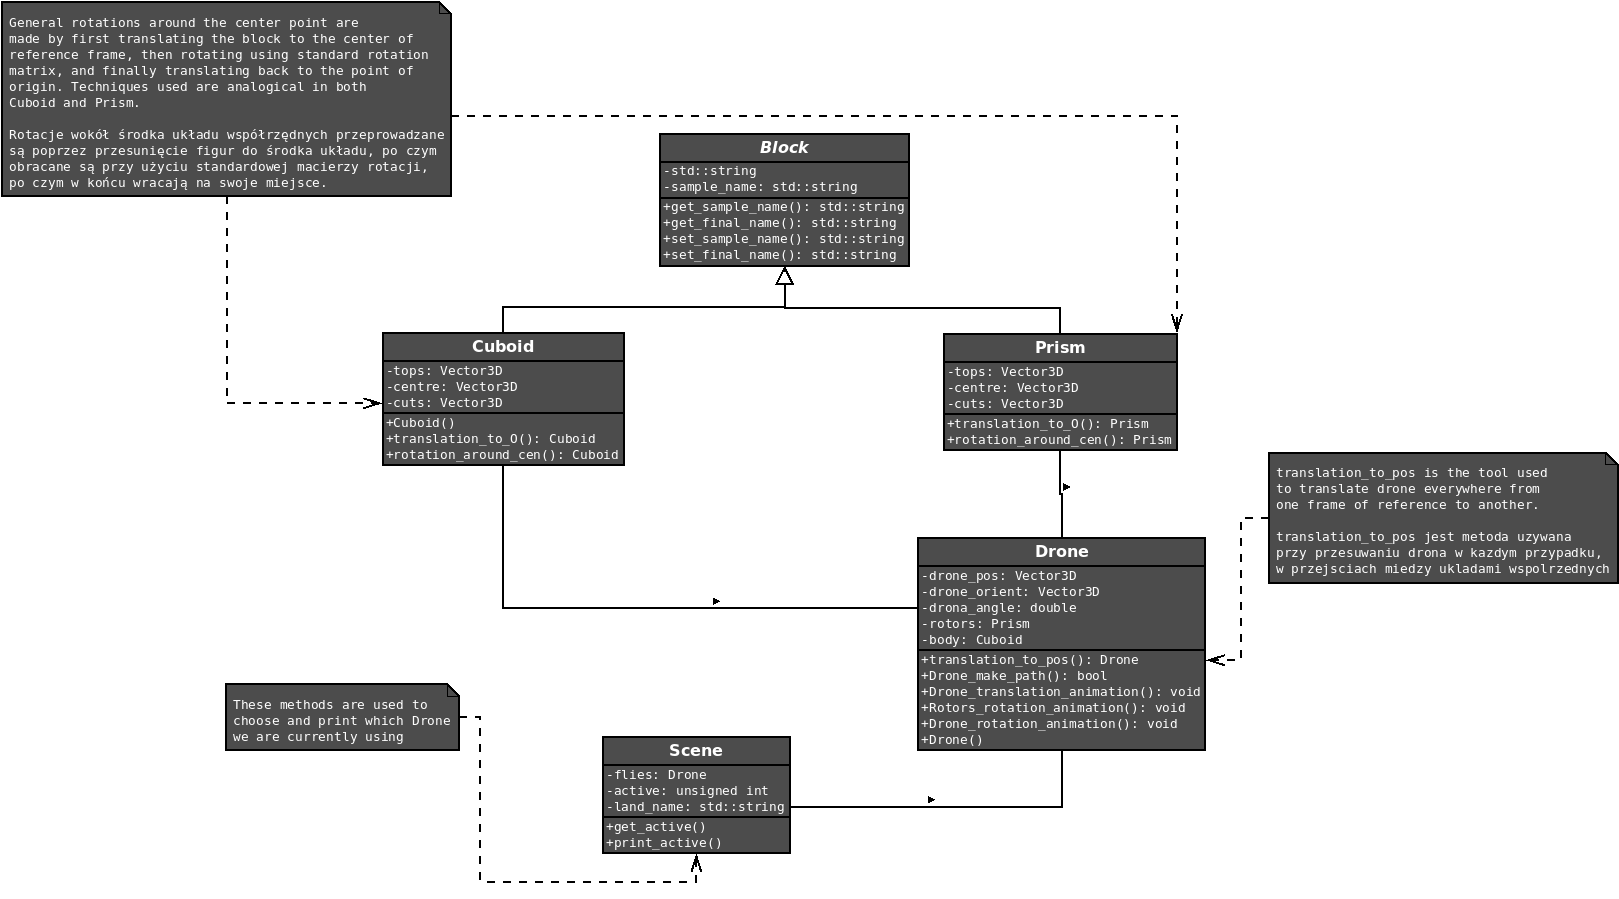
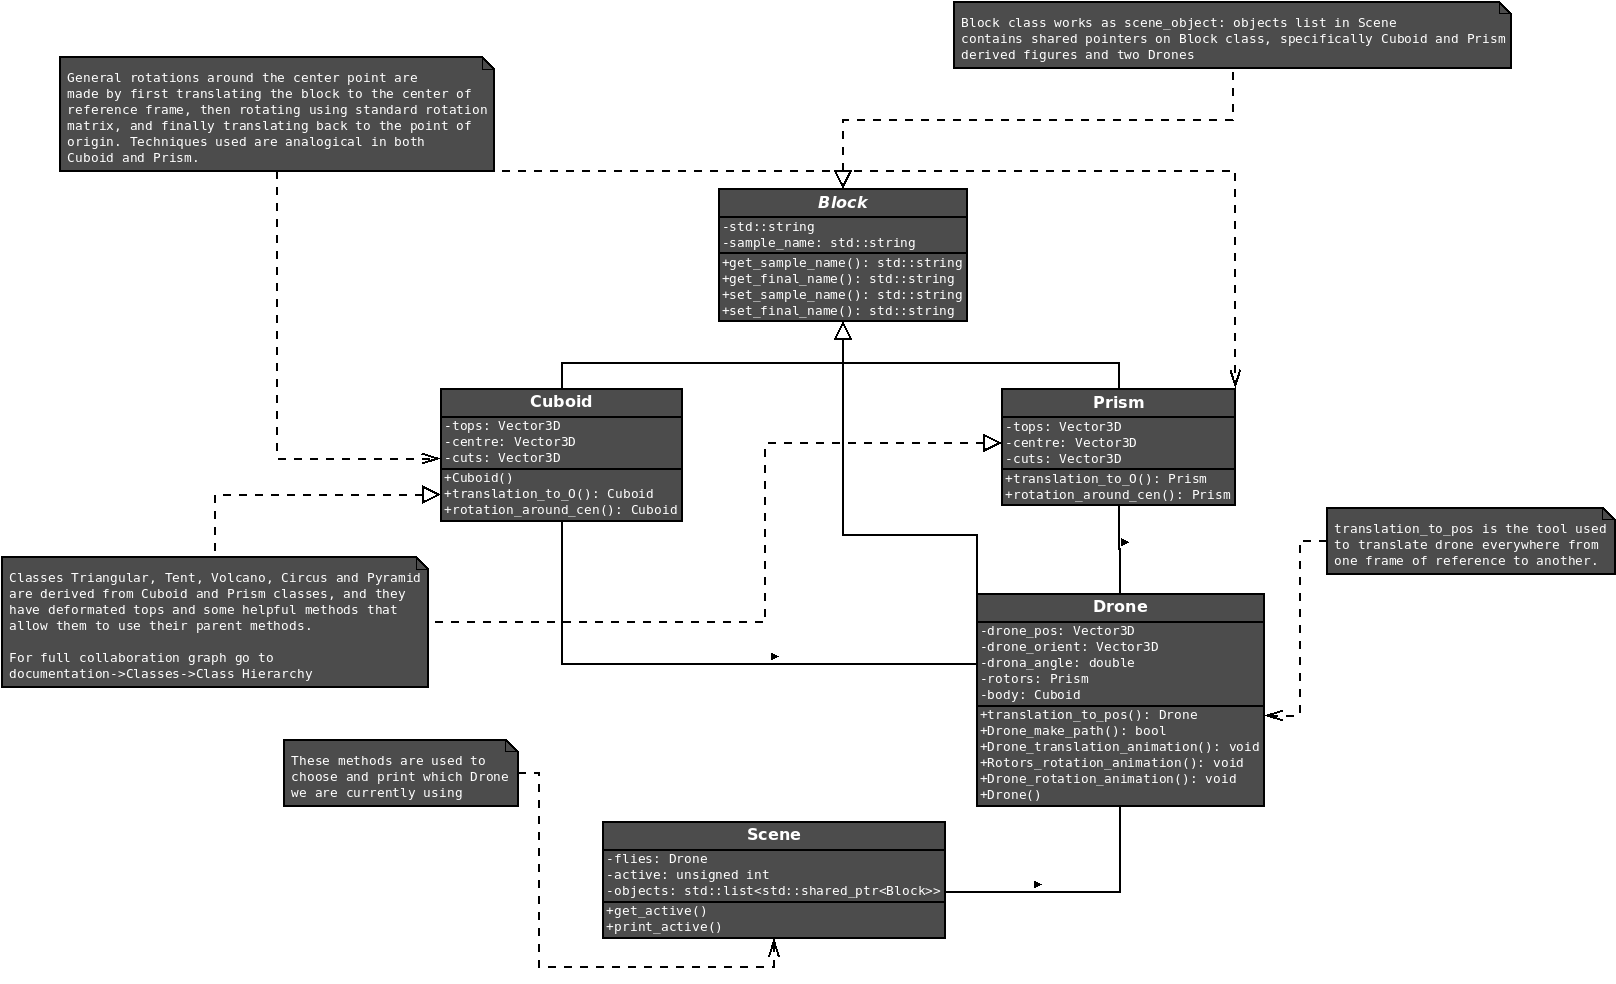
Finished drone 5.2, added new Class diagram

diff --git a/README.md b/README.md
@@ -4,7 +4,7 @@ Below it is shown how the programme is structured and how it declares 3D geometr
 
 ## Class diagram
 
-![Cuboid in 3D](/readme_pics/class_diagram.png)
+![Class diagram](/readme_pics/class_diagram.png)
 
 To see more indepth diagrams and documentation go to /documentation dir.
 
